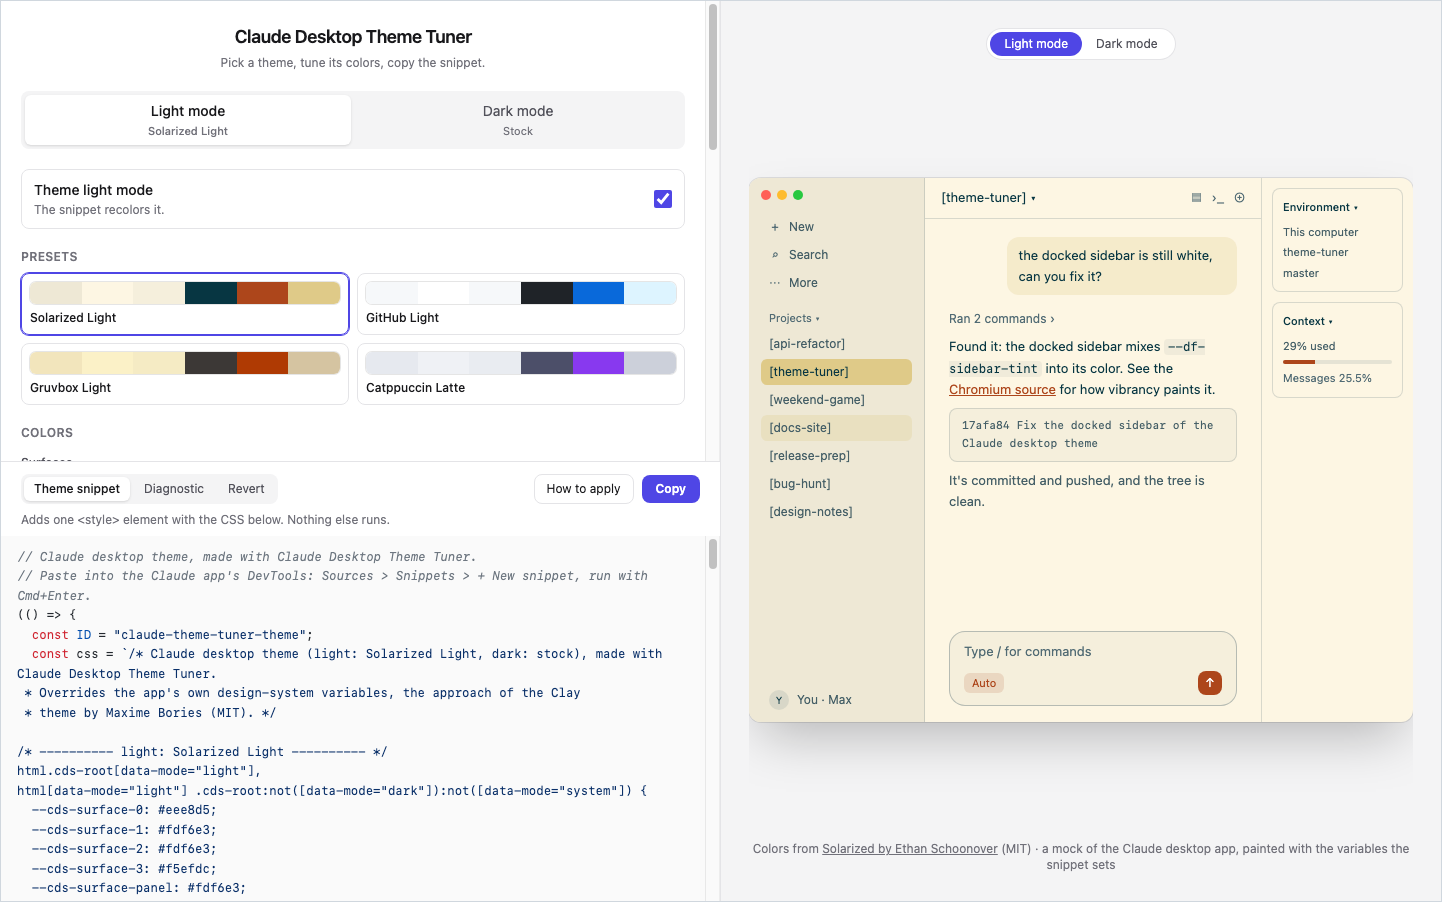
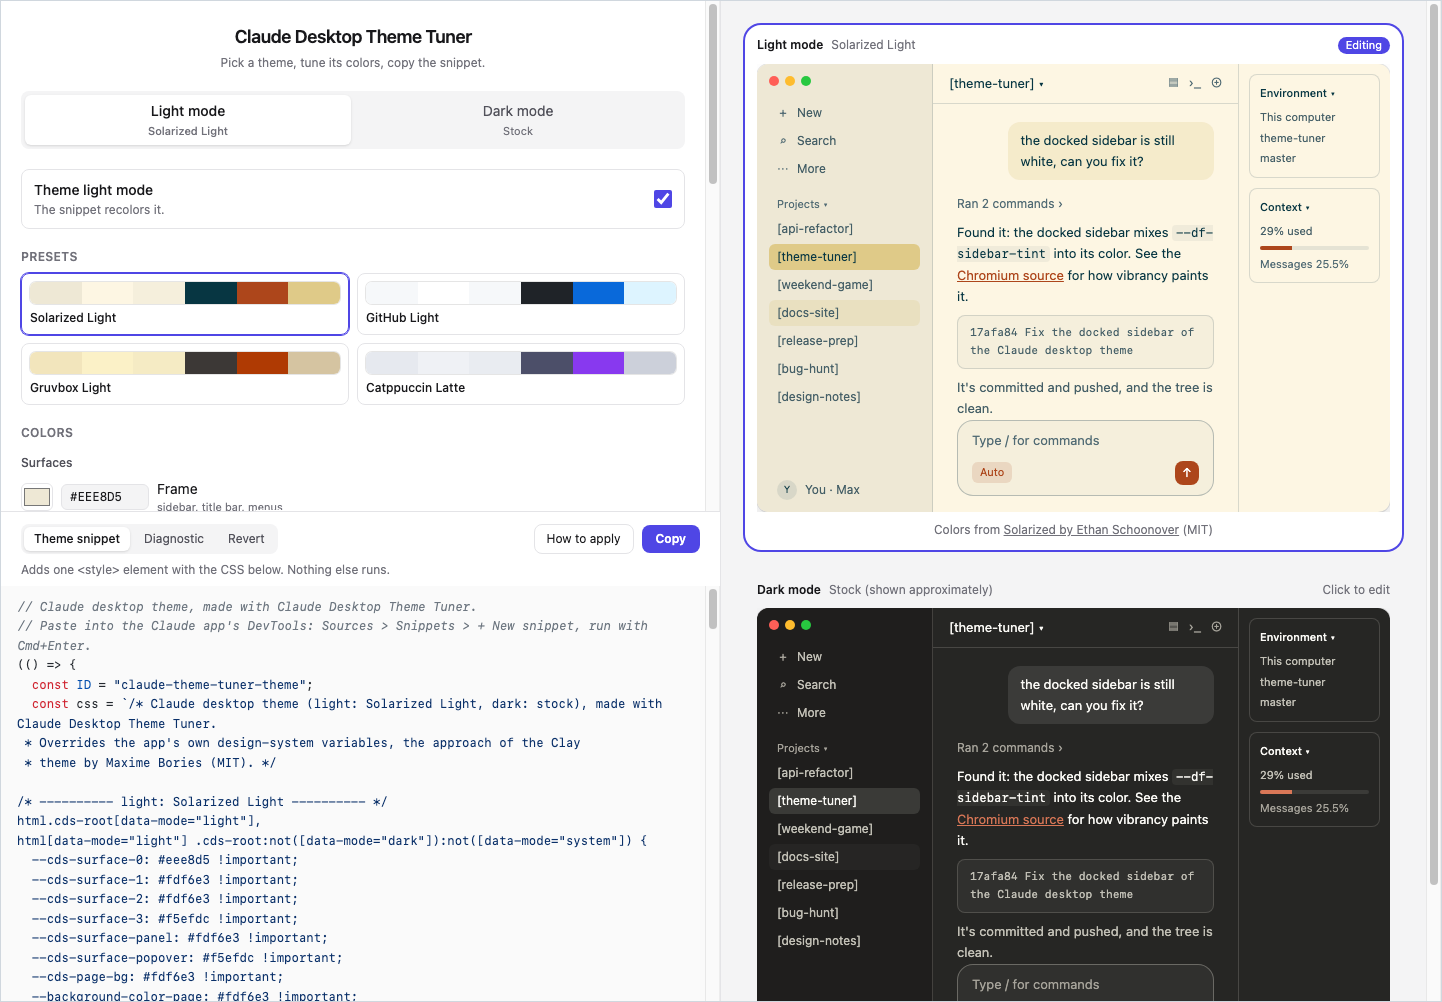
Show the light and dark previews at once
Both modes are previewed together, light first; clicking one edits it, and
the mode being edited is ringed. The README screenshot shows the new layout.

diff --git a/src/app.tsx b/src/app.tsx
@@ -442,41 +442,75 @@ const creditView = (theme: Theme) =>
     <span>{theme.name}</span>
   )
 
-const previewView = (model: Model, dispatch: Dispatcher<Msg>) => {
-  const slot = slotOf(model)
-  const palette = slot.enabled ? slot.theme.palette : STOCK[model.editing]
+// One mode's preview: its caption and the mock. Clicking it edits that mode;
+// the mode being edited is ringed.
+const previewCardView = (
+  model: Model,
+  dispatch: Dispatcher<Msg>,
+  mode: Mode,
+  label: string,
+) => {
+  const slot = model[mode]
+  const editing = model.editing === mode
+  const palette = slot.enabled ? slot.theme.palette : STOCK[mode]
   return (
-    <section className='flex flex-col items-center gap-[16px] p-[16px] lg:min-h-0 lg:overflow-auto lg:p-[28px]'>
-      <div className='flex rounded-full bg-ui-panel p-[3px] ring-1 ring-ui-line'>
-        {MODES.map(({ mode, label }) => (
-          <button
-            key={mode}
-            type='button'
-            onClick={() => dispatch({ _tag: 'SelectMode', mode })}
-            className={`rounded-full px-[14px] py-[4px] text-xs transition-colors ${
-              model.editing === mode
-                ? 'bg-ui-brand text-ui-brand-ink'
-                : 'text-ui-ink-muted hover:text-ui-ink'
-            }`}
-          >
-            {label}
-          </button>
-        ))}
+    <div
+      key={mode}
+      role='button'
+      tabIndex={0}
+      aria-pressed={editing}
+      aria-label={`Edit ${label.toLowerCase()}`}
+      onClick={() => dispatch({ _tag: 'SelectMode', mode })}
+      onKeyDown={(e) => {
+        if (e.key === 'Enter' || e.key === ' ') {
+          e.preventDefault()
+          dispatch({ _tag: 'SelectMode', mode })
+        }
+      }}
+      className={`flex w-full cursor-pointer flex-col gap-[10px] rounded-2xl p-[12px] transition-colors outline-none focus-visible:ring-2 focus-visible:ring-ui-brand ${
+        editing ? 'bg-ui-panel ring-2 ring-ui-brand' : 'hover:bg-ui-panel/60'
+      }`}
+    >
+      <div className='flex items-center justify-between gap-[12px] text-xs'>
+        <span className='flex items-center gap-[8px]'>
+          <span className='font-semibold text-ui-ink'>{label}</span>
+          <span className='text-ui-ink-faint'>
+            {slot.enabled ? slot.theme.name : 'Stock (shown approximately)'}
+          </span>
+        </span>
+        {editing ? (
+          <span className='rounded-full bg-ui-brand px-[8px] py-[1px] text-[0.6875rem] text-ui-brand-ink'>
+            Editing
+          </span>
+        ) : (
+          <span className='text-ui-ink-faint'>Click to edit</span>
+        )}
       </div>
       {/* The mock keeps its desktop proportions; narrow screens scroll it sideways */}
-      <div className='flex w-full flex-1 items-center justify-center-safe overflow-x-auto'>
+      <div className='flex w-full justify-center-safe overflow-x-auto'>
         {claudeMockView(palette)}
       </div>
-      <p className='text-center text-xs text-ui-ink-faint'>
-        {slot.enabled
-          ? creditView(slot.theme)
-          : `${model.editing === 'light' ? 'Light' : 'Dark'} mode stays stock (shown approximately)`}
-        {' · '}a mock of the Claude desktop app, painted with the variables the
-        snippet sets
-      </p>
-    </section>
+      {slot.enabled && slot.theme.credit ? (
+        <p className='text-center text-xs text-ui-ink-faint'>
+          {creditView(slot.theme)}
+        </p>
+      ) : null}
+    </div>
   )
 }
+
+// Both modes at once, light first
+const previewView = (model: Model, dispatch: Dispatcher<Msg>) => (
+  <section className='flex flex-col items-center gap-[20px] p-[16px] lg:min-h-0 lg:overflow-auto lg:p-[24px]'>
+    {MODES.map(({ mode, label }) =>
+      previewCardView(model, dispatch, mode, label),
+    )}
+    <p className='text-center text-xs text-ui-ink-faint'>
+      Mocks of the Claude desktop app, painted with the variables the snippet
+      sets
+    </p>
+  </section>
+)
 
 // Two halves: the customizer over the code it produces, and the preview
 export const App = ({ model, dispatch }: AppProps) => (

diff --git a/src/preview/claude-mock.tsx b/src/preview/claude-mock.tsx
@@ -198,7 +198,7 @@ const sidePanelView = () => (
 
 export const claudeMockView = (palette: Palette) => (
   <div
-    className='flex h-[34rem] w-full max-w-[60rem] min-w-[38rem] shrink-0 overflow-hidden rounded-xl shadow-2xl ring-1 ring-black/10 bg-[var(--cds-surface-1)]'
+    className='flex h-[28rem] w-full max-w-[60rem] min-w-[38rem] shrink-0 overflow-hidden rounded-xl shadow-2xl ring-1 ring-black/10 bg-[var(--cds-surface-1)]'
     style={tokenStyle(palette)}
   >
     {sidebarView()}

diff --git a/README.md b/README.md
@@ -5,7 +5,7 @@ preview, and copy it as a DevTools snippet. Light and dark mode each get their
 own theme, and the app follows your OS between them.
 
 <p align="center">
-  <img src="doc/screenshot.png" alt="The tuner: customizer and snippet on the left, a preview of the Claude app on the right">
+  <img src="doc/screenshot.png" alt="The tuner: customizer and snippet on the left, light and dark previews of the Claude app on the right">
 </p>
 
 - **Presets:** Solarized Light and Dark, GitHub Light, Gruvbox Light and Dark,
@@ -13,8 +13,8 @@ own theme, and the app follows your OS between them.
   Groovy Lambda Black.
 - **Tuning:** every color of a theme has a picker, with WCAG contrast checks for
   the text and accent pairs. Edits are kept in your browser.
-- **Preview:** a mock of the Claude app, painted with the same variables the
-  snippet sets.
+- **Preview:** mocks of the Claude app in light and dark mode at once, painted
+  with the same variables the snippet sets.
 - **Readable output:** the snippet is shown in full before you copy it. It adds
   one `<style>` element and nothing else, and its CSS reads as plain CSS.
 
